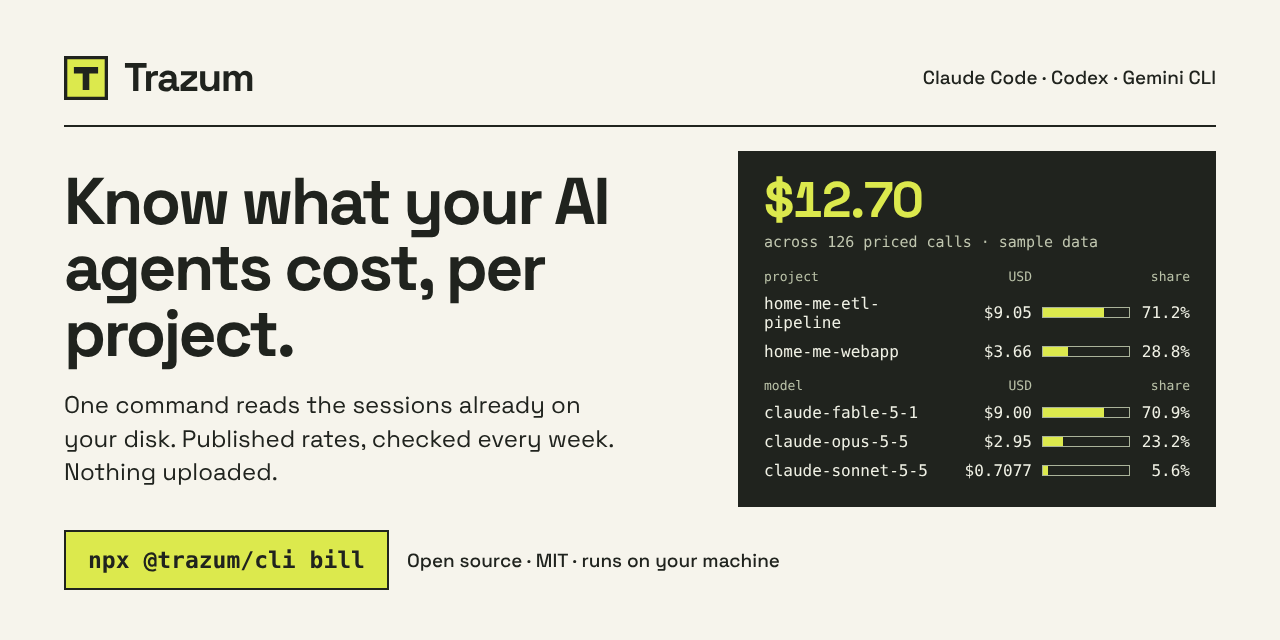
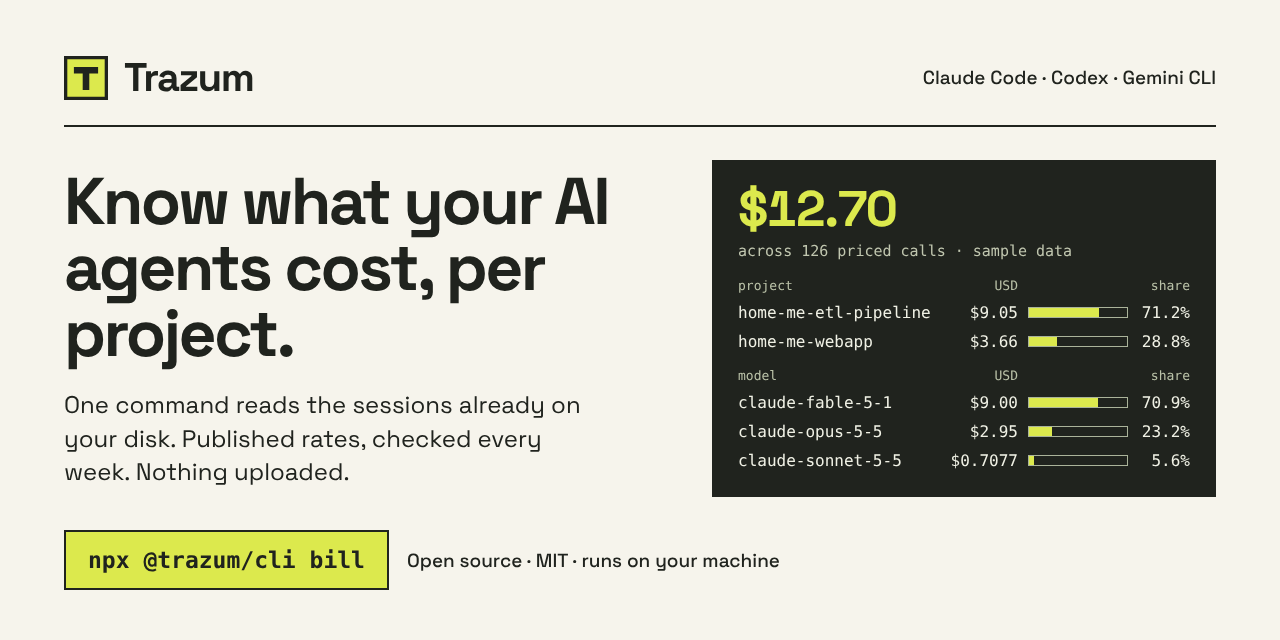
Redraw the social preview card so no row wraps
The card shipped in 2.7.8 with home-me-etl-pipeline broken across two
lines: its column was narrowed to fit a longer dollar figure and the
picture was not looked at again. The column is wider, a row cannot wrap,
and the image is redrawn. The figures were right throughout.

Claude-Session: https://claude.ai/code/session_01FUbkk7q3Qo7gC95sS8ZeKC

diff --git a/docs/assets/social-preview.html b/docs/assets/social-preview.html
@@ -23,11 +23,11 @@ body { background: #f6f4ec; color: #20231e; font-family: "Space Grotesk", sans-s
 .mid { display: flex; gap: 48px; align-items: center; }
 .say { flex: 1; display: flex; flex-direction: column; gap: 22px; }
 h1 { font-size: 66px; line-height: 1.0; letter-spacing: -0.04em; font-weight: 700; }
-p { font-size: 24px; line-height: 1.4; max-width: 560px; }
-.bill { width: 478px; background: #20231e; color: #f0f1e5; padding: 24px 26px 22px; font-family: ui-monospace, "DejaVu Sans Mono", Menlo, Consolas, monospace; font-size: 16px; font-variant-numeric: tabular-nums; }
+p { font-size: 24px; line-height: 1.4; max-width: 540px; }
+.bill { width: 504px; background: #20231e; color: #f0f1e5; padding: 24px 26px 22px; font-family: ui-monospace, "DejaVu Sans Mono", Menlo, Consolas, monospace; font-size: 16px; font-variant-numeric: tabular-nums; }
 .total { font-family: "Space Grotesk", sans-serif; font-size: 50px; font-weight: 700; letter-spacing: -0.04em; color: #dce94d; line-height: 1; }
 .sub { color: #c0c6af; margin: 8px 0 18px; font-size: 15px; }
-.row { display: grid; grid-template-columns: 186px 72px 1fr 50px; align-items: center; gap: 10px; padding: 5px 0; }
+.row { display: grid; grid-template-columns: 200px 70px 1fr 52px; align-items: center; gap: 10px; padding: 5px 0; white-space: nowrap; }
 .row.h { color: #bac2a8; font-size: 13px; padding-top: 0; }
 .usd, .pct { text-align: right; }
 .bar { height: 11px; border: 1.5px solid #aab39a; }

diff --git a/CHANGELOG.md b/CHANGELOG.md
@@ -26,6 +26,16 @@ merged commit with no entry is a change only `git log` remembers.
   prints, standard, batch and cache, on both sides of 2026-12-01; six faults
   planted in the rows were each caught.
 
+### Fixed
+
+- **The card for a shared link broke a project's name across two lines.**
+  `docs/assets/social-preview.png` shipped in 2.7.8 with
+  `home-me-etl-pipeline` wrapped, because the column it sits in was narrowed
+  to fit a longer dollar figure and the picture was not looked at again. The
+  column is wider, a row no longer wraps, and the image is redrawn. The
+  figures were right throughout; the test that holds them reads the page's
+  text and cannot see a line break.
+
 ### Changed
 
 - **Google's prices were re-read on 2026-11-16, and every one matched.** The
